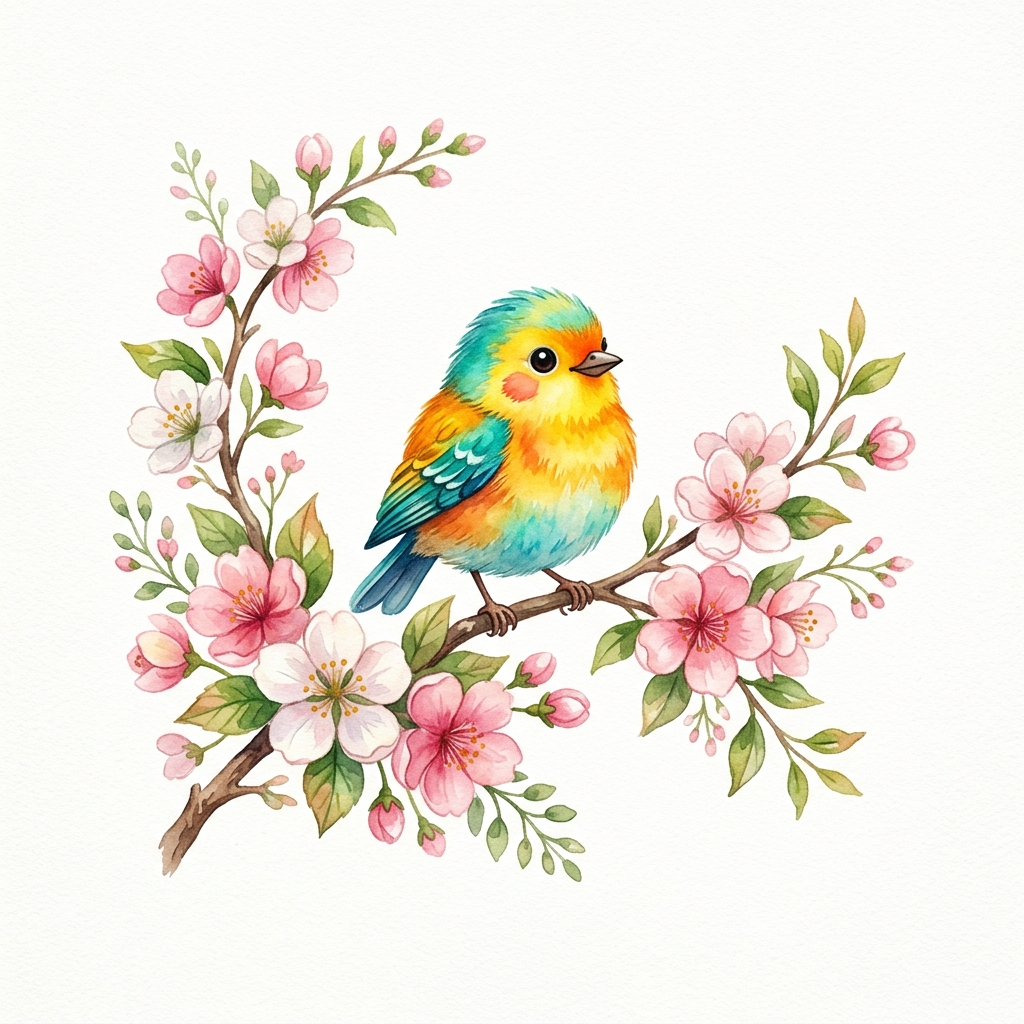
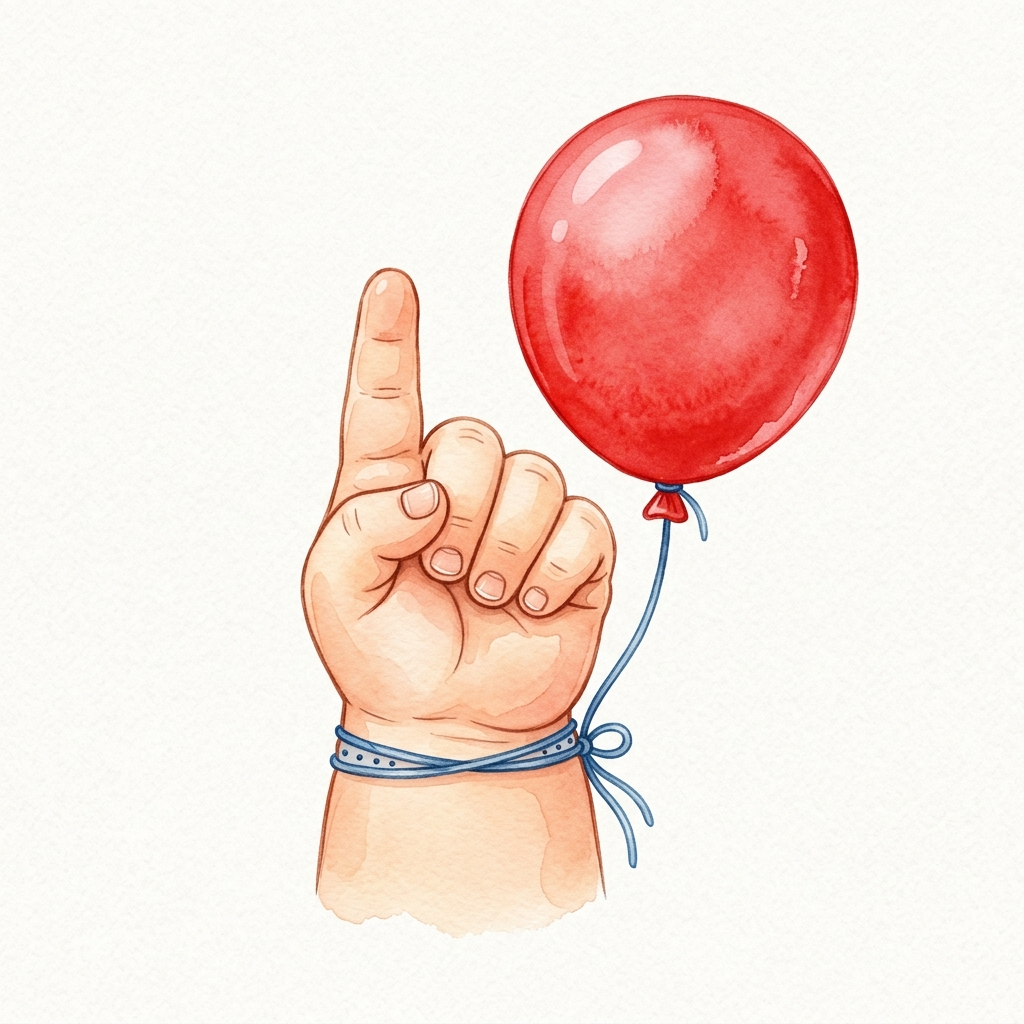
fix: replace bird illustration for 一 with intuitive finger counting 1 gesture and red balloon

diff --git a/index.html b/index.html
@@ -77,7 +77,7 @@
                 <!-- 左半：大幅看图识字插画 (纯净无字大图) -->
                 <div id="char-illustration-large" class="ill-art-box" title="点击听朗读发音">
                     <div class="ill-art-wrap">
-                        <img src="assets/illustrations/yi.jpg" class="ill-large-img" alt="看图识字">
+                        <img src="assets/illustrations/yi.jpg?v=20261003_v3" class="ill-large-img" alt="看图识字">
                     </div>
                 </div>
 

diff --git a/js/char-data.js b/js/char-data.js
@@ -4935,7 +4935,7 @@ window.CHARACTER_EN_MAP = {
 
 // --- 高品质专属看图识字插画库 (高清绘本水彩插画与精细矢量图，替代粗糙emoji) ---
 window.CHARACTER_ILLUSTRATION_MAP = {
-    "一": "assets/illustrations/yi.jpg",
+    "一": "assets/illustrations/yi.jpg?v=20261003_v3",
     "二": "assets/illustrations/er.jpg",
     "三": "assets/illustrations/san.jpg",
     "十": "assets/illustrations/shi.svg",
